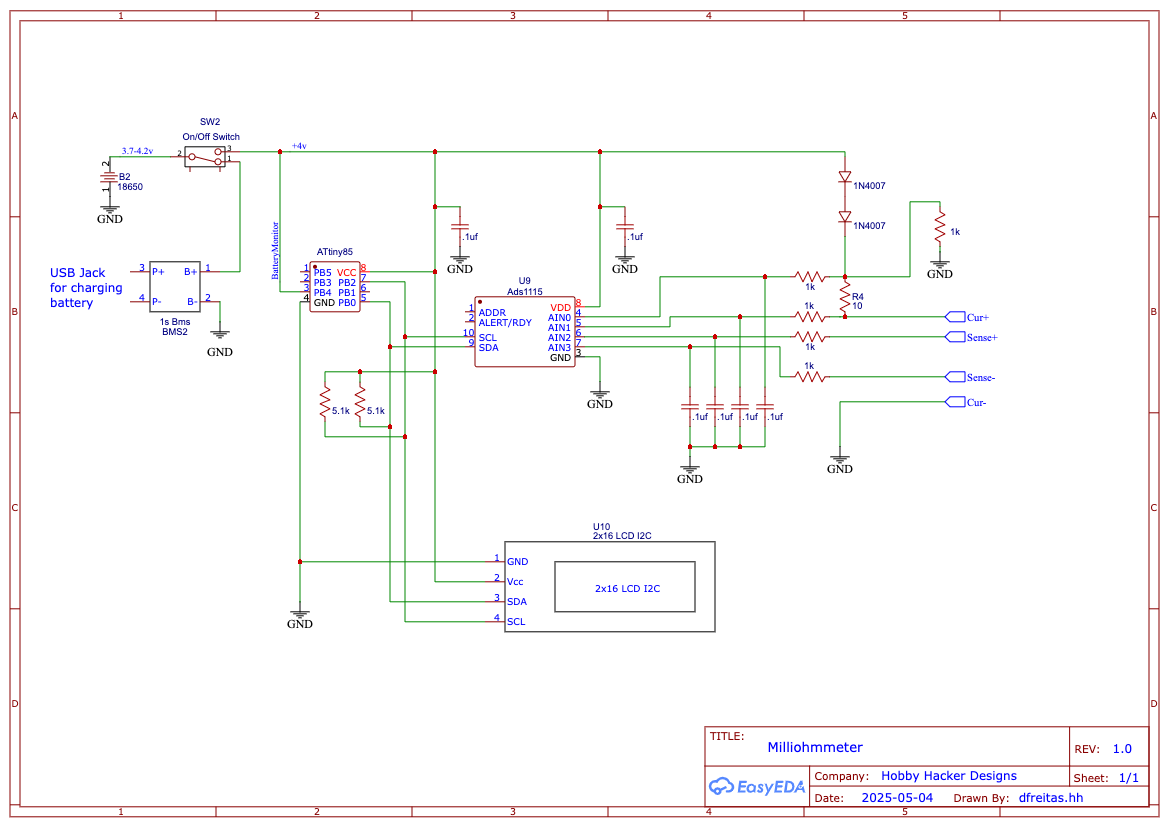
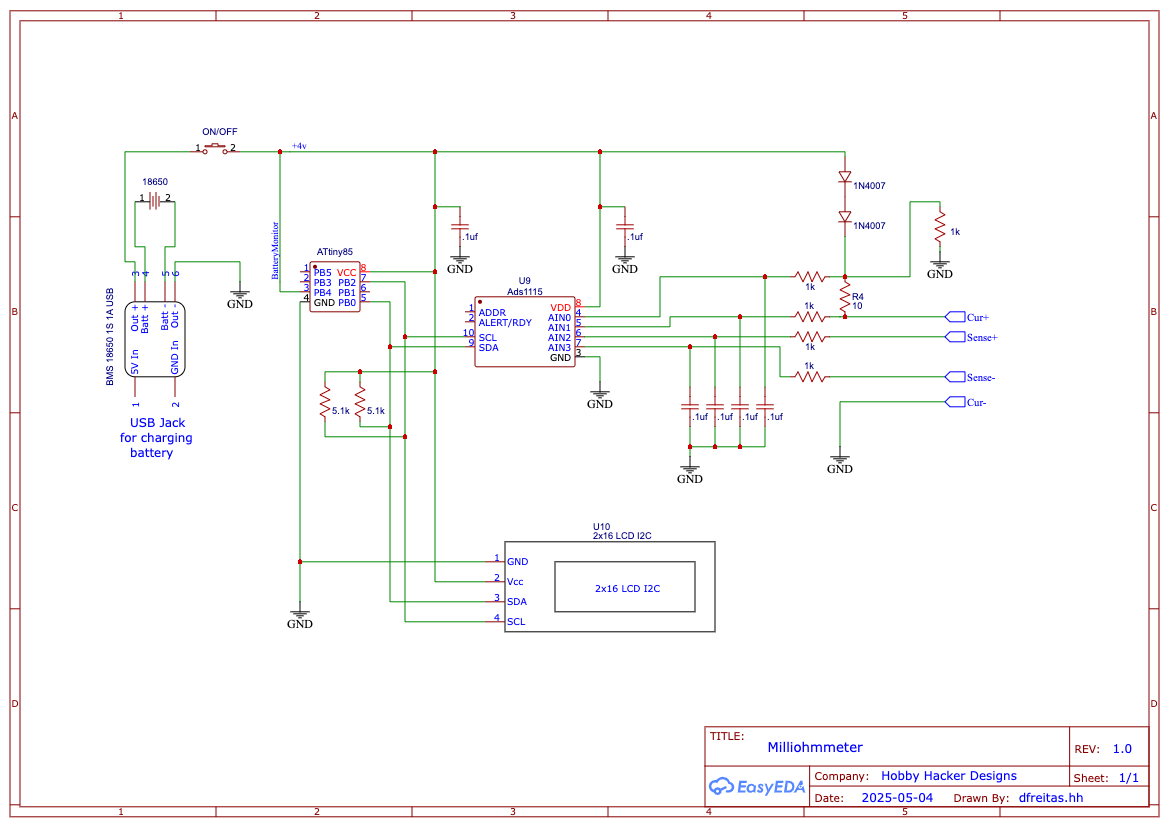
Updated low-battery voltage, added updated schematic

Changed region(s): [[0.0308, 0.1511, 0.2156, 0.5744]]

diff --git a/src/main.cpp b/src/main.cpp
@@ -15,7 +15,7 @@
 
 const float gainMultiplier = 0.1250F;  // For GAIN_ONE setting
 const float calConstant = 1.000F;      // Calibrate againist known resistor
-const float batteryLowLimit = 3.0F;    // Limit before we display "low battery"
+const float batteryLowLimit = 3.4F;    // Limit before we display "low battery"
 
 #define BATTERY_MONITOR ADC2
  
@@ -92,7 +92,7 @@ void loop() {
 
   // Check the battery
   long vcc = readVcc();
-  float voltage = vcc / 1000.0;
+  float voltage = vcc / 1000.0;  // In volts
 
   if (voltage < batteryLowLimit) {
     lcd.setCursor(0, 1); 
